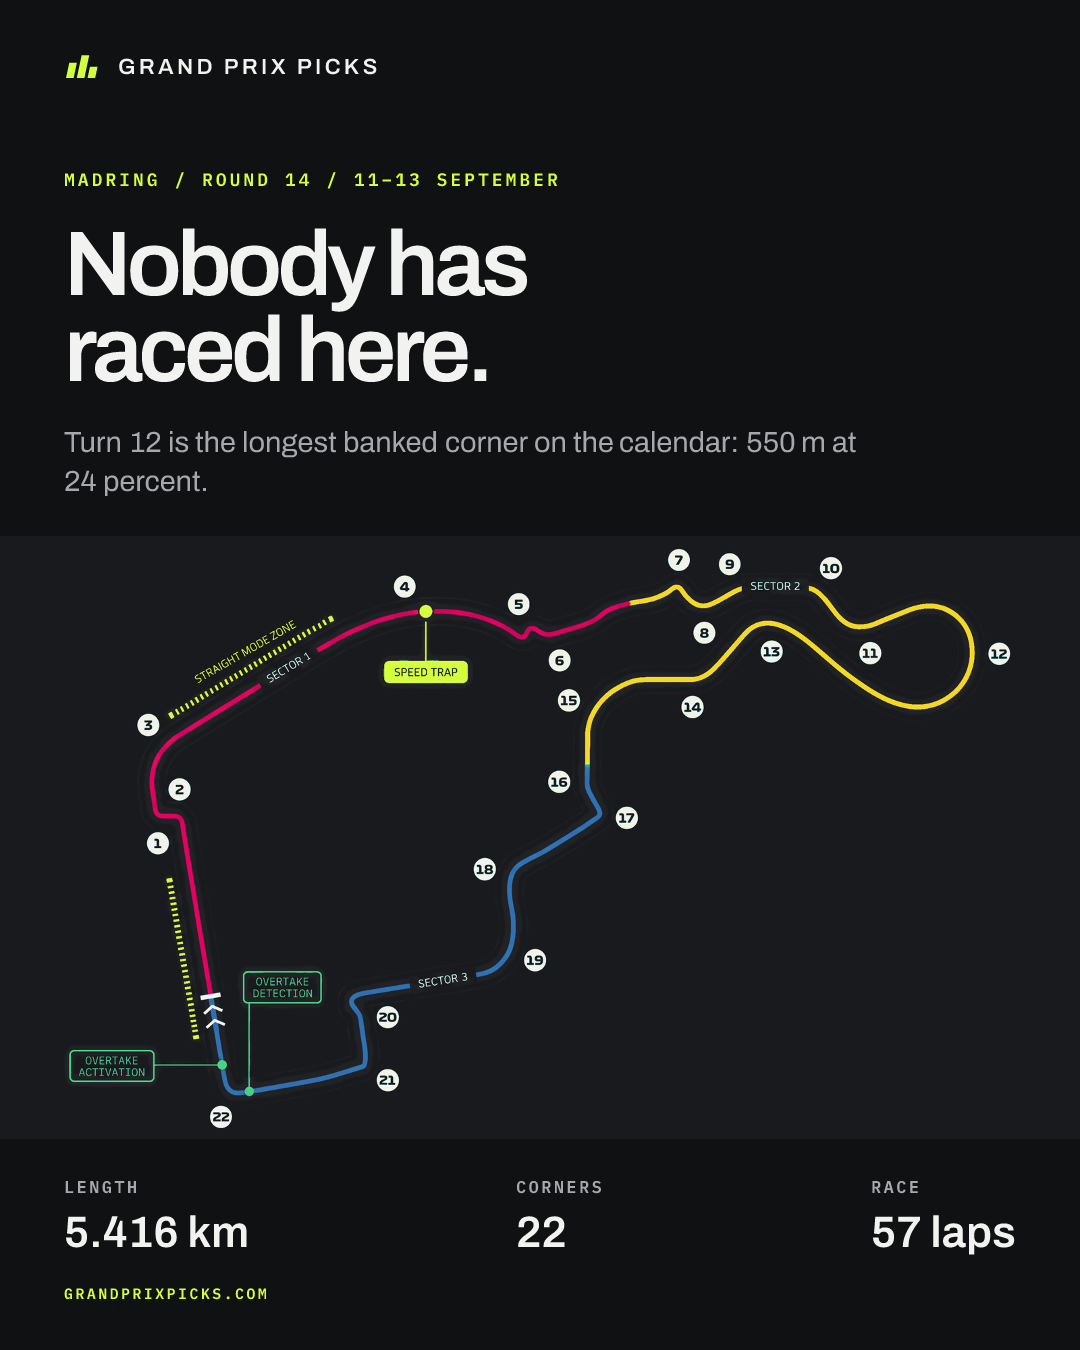
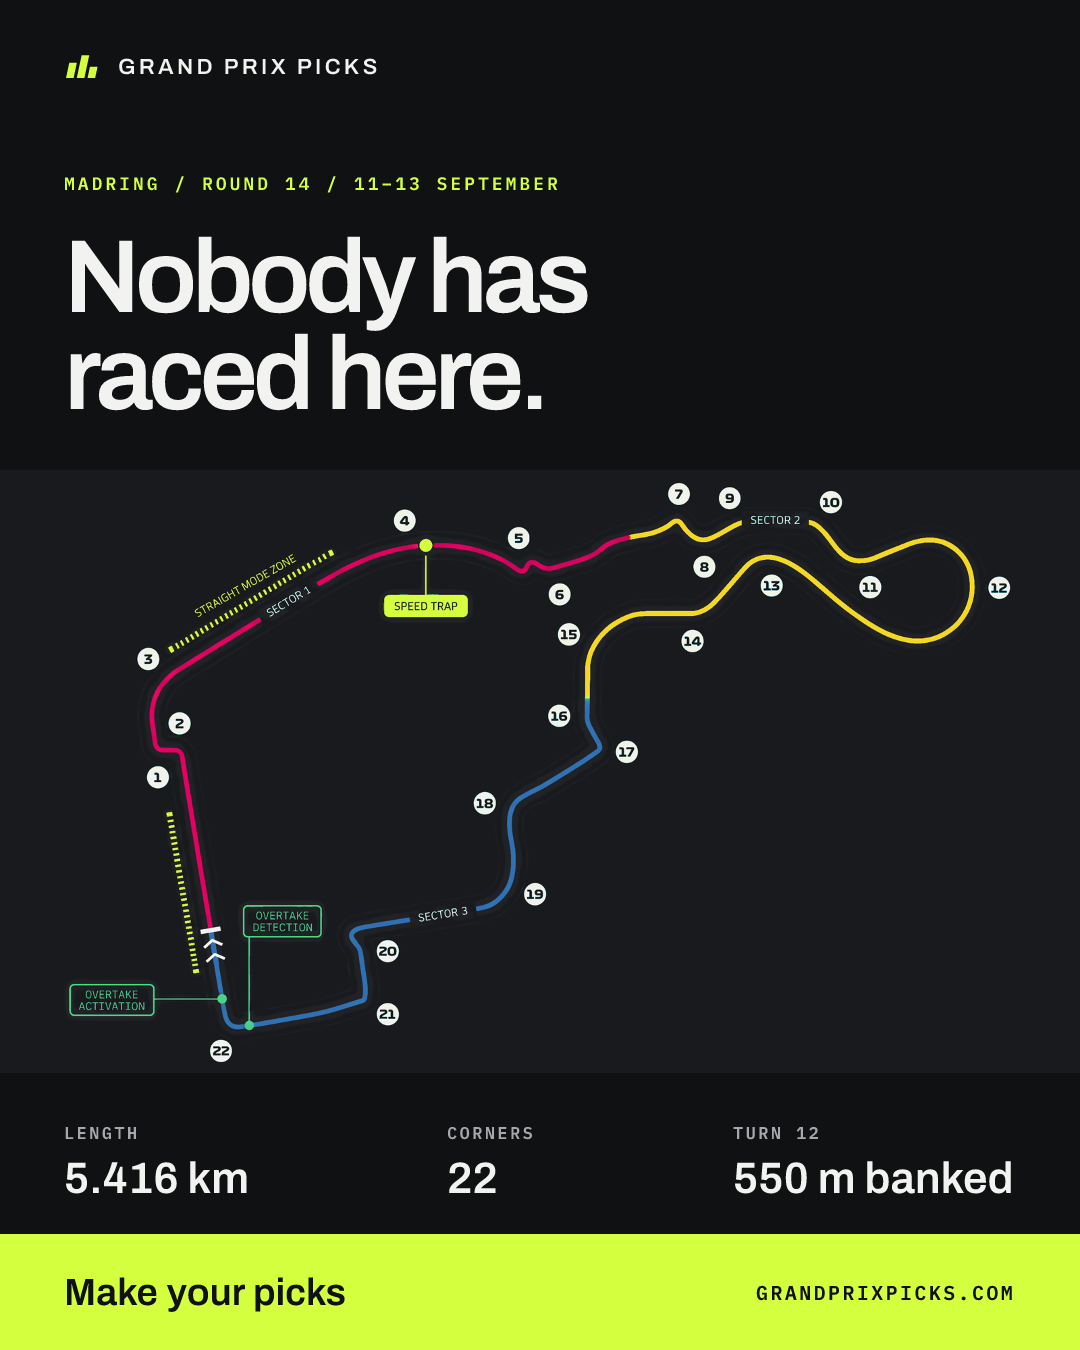
Give the Instagram card something to stop a thumb
It was four shades of near-black stacked in a column, with a 15px domain
as the brightest thing on it. The headline goes up to 104, the standfirst
comes off (a second paragraph goes unread in a feed, and the caption sits
directly below), and the bottom of the card becomes a full-width accent
bar carrying the call to action.

That is the system's own rule rather than a decoration: in this palette
the accent is the call to action. The third fact changes with it, from a
third measurement to the one worth knowing, Turn 12.

Claude-Session: https://claude.ai/code/session_01G2qKfMJWbkKPcTFg2SVUYV

diff --git a/artifacts/social/madrid-lap-map-2026/campaign.md b/artifacts/social/madrid-lap-map-2026/campaign.md
@@ -28,6 +28,13 @@ not reach, bottom right, aligned to the same gutter the logo sits on. Type
 dropped into the middle of the lap reads as part of the diagram, and it landed
 a badge's width from Turn 18.
 
+Instagram stacks: headline, map, numbers, then a full-width accent bar carrying
+the call to action. The bar is the one loud element and it follows the system's
+own rule, that the accent is the call to action. Without it the card was four
+shades of near-black in a feed of photographs, and the only bright thing on it
+was a 15px domain in the corner. The standfirst came off at the same time: a
+second paragraph goes unread in a feed, and the caption is directly below.
+
 ## Format
 
 | Channel   | Asset                               | Size      |
